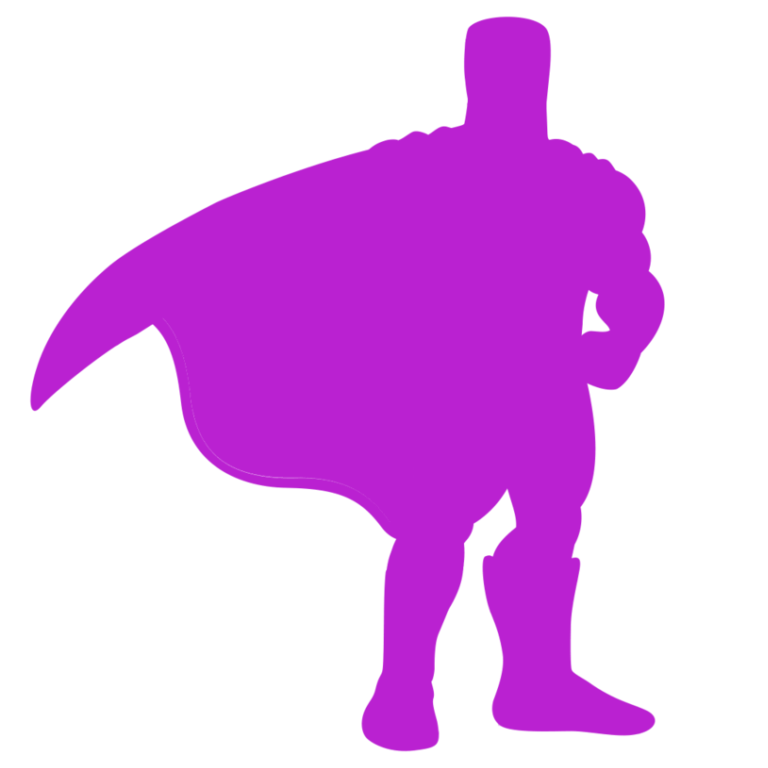
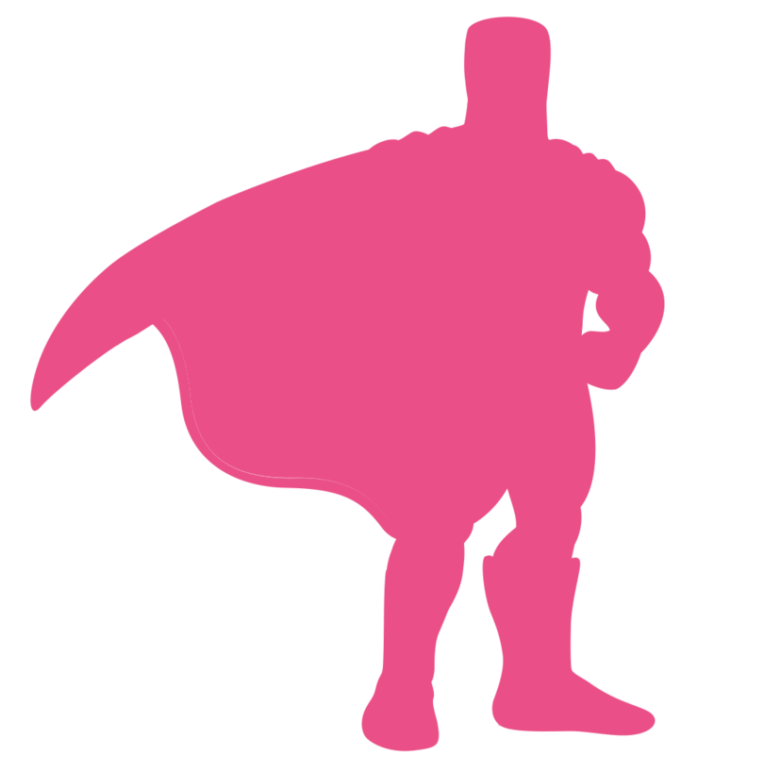
Ajuste de cores

diff --git a/src/templates/Home/Experiencias/const.ts b/src/templates/Home/Experiencias/const.ts
@@ -9,18 +9,18 @@ export default {
     },
     {
       title: "Estágiaria",
-      date: "20 de janeiro de 2020 - 1 de agosto de 2021",
-      text: "Lorem ipsum dolor sit amet, consectetur adipiscing elit, sed do eiusmod tempor incididunt ut labore et dolore magna aliqua. Ut enim ad minim veniam, quis nostrud exercitation ullamco laboris nisi ut aliquip ex ea commodo consequat. Duis aute irure dolor in reprehenderit in voluptate velit esse cillum dolore eu fugiat nulla pariatur. Excepteur sint occaecat cupidatat non proident, sunt in culpa qui officia deserunt mollit anim id est laborum."
+      date: "20 de agosto de 2022 - 23 de agosto de 2021",
+      text: "Lorem Ipsum is simply dummy text of the printing and typesetting industry. Lorem Ipsum has been the industry's standard dummy text ever since the 1500s, when an unknown printer took a galley of type and scrambled it to make a type specimen book. It has survived not only five centuries, but also the leap into electronic typesetting, remaining essentially unchanged. It was popularised in the 1960s with the release of Letraset sheets containing Lorem Ipsum passages, and more recently with desktop publishing software like Aldus PageMaker including versions of Lorem Ipsum"
     },
     {
       title: "Programadora Júnior",
       date: "20 de janeiro de 2020 - 1 de agosto de 2021",
-      text: "Lorem ipsum dolor sit amet, consectetur adipiscing elit, sed do eiusmod tempor incididunt ut labore et dolore magna aliqua. Ut enim ad minim veniam, quis nostrud exercitation ullamco laboris nisi ut aliquip ex ea commodo consequat. Duis aute irure dolor in reprehenderit in voluptate velit esse cillum dolore eu fugiat nulla pariatur. Excepteur sint occaecat cupidatat non proident, sunt in culpa qui officia deserunt mollit anim id est laborum."
+      text: "It is a long established fact that a reader will be distracted by the readable content of a page when looking at its layout. The point of using Lorem Ipsum is that it has a more-or-less normal distribution of letters, as opposed to using 'Content here, content here', making it look like readable English. Many desktop publishing packages and web page editors now use Lorem Ipsum as their default model text, and a search for 'lorem ipsum' will uncover many web sites still in their infancy. Various versions have evolved over the years, sometimes by accident, sometimes on purpose (injected humour and the like)."
     },
     {
       title: "Programadora Plena",
       date: "20 de janeiro de 2020 - 1 de agosto de 2021",
-      text: "Lorem ipsum dolor sit amet, consectetur adipiscing elit, sed do eiusmod tempor incididunt ut labore et dolore magna aliqua. Ut enim ad minim veniam, quis nostrud exercitation ullamco laboris nisi ut aliquip ex ea commodo consequat. Duis aute irure dolor in reprehenderit in voluptate velit esse cillum dolore eu fugiat nulla pariatur. Excepteur sint occaecat cupidatat non proident, sunt in culpa qui officia deserunt mollit anim id est laborum."
+      text: "There are many variations of passages of Lorem Ipsum available, but the majority have suffered alteration in some form, by injected humour, or randomised words which don't look even slightly believable. If you are going to use a passage of Lorem Ipsum, you need to be sure there isn't anything embarrassing hidden in the middle of text. All the Lorem Ipsum generators on the Internet tend to repeat predefined chunks as necessary, making this the first true generator on the Internet. "
     }
   ]
 }

diff --git a/src/templates/Home/Experiencias/index.tsx b/src/templates/Home/Experiencias/index.tsx
@@ -2,22 +2,55 @@ import * as S from './styles';
 import C from './const';
 import Wrapper from '../../../components/Wrapper';
 import Title from '../../../components/Title';
+import { useEffect, useRef } from 'react';
+import gsap from 'gsap';
 
 const Experiencias = () => {
+  const experienciasRef = useRef<HTMLDivElement>(null)
+  const accordionRef = useRef<HTMLDivElement>(null)
+  const optionRef = useRef<HTMLParagraphElement[]>([])
+  const accordionWrapperRef = useRef<HTMLDivElement[]>([])
+
+  const pushOptionRef = (el: HTMLParagraphElement) => optionRef.current.push(el)
+  const pushAccordionWrapperRef = (el: HTMLDivElement) => accordionWrapperRef.current.push(el)
+
+  useEffect(() => {
+    const tl = gsap.timeline({
+      scrollTrigger: {
+        trigger: accordionRef.current,
+        markers: true,
+        pin: experienciasRef.current,
+        scrub: 1,
+        start: "top top",
+        end: "bottom bottom",
+      }
+    })
+
+    tl.to(accordionWrapperRef.current, {
+      x: 10,
+      stagger: 1
+    })
+  }, []);
+
   return (
-    <S.Experiencias id={C.id}>
+    <S.Experiencias id={C.id} ref={experienciasRef}>
       <Wrapper>
         <S.Content>
           <Title>{C.title}</Title>
 
-          <S.Accordion>
+          <S.Accordion ref={accordionRef}>
             <S.AccordionMenu>
               {C.content.map(option => (
-                <S.Option>{option.title}</S.Option>
+                <S.Option key={option.title} ref={pushOptionRef}>{option.title}</S.Option>
               ))}
             </S.AccordionMenu>
             <S.AccordionContent>
-                
+              {C.content.map(option => (
+                <S.AccordionWrapper key={option.title} ref={pushAccordionWrapperRef}>
+                  <S.Date>{option.date}</S.Date>
+                  <S.Text>{option.text}</S.Text>
+                </S.AccordionWrapper>
+              ))}
             </S.AccordionContent>
           </S.Accordion>
         </S.Content>

diff --git a/src/templates/Home/Experiencias/styles.ts b/src/templates/Home/Experiencias/styles.ts
@@ -1,13 +1,55 @@
 import styled from 'styled-components';
 
-export const Experiencias = styled.section``;
+export const Experiencias = styled.section`
+`;
 
-export const Content = styled.div``;
+export const Content = styled.div`
+  max-width: 1150px;
+  margin: 0 auto;
+`;
 
-export const Accordion = styled.div``;
+export const Accordion = styled.div`
+  display: flex;
+`;
 
-export const AccordionMenu = styled.div``;
+export const AccordionMenu = styled.div`
+  width: 25%;
+`;
 
-export const Option = styled.p``;
+export const Option = styled.p`
+  font-size: 20px;
+  line-height: 24px;
+  padding: 22px 0 22px 33px;
 
-export const AccordionContent = styled.div``;
+  &:first-child {
+    border-left: 5px solid ${({theme}) => theme.colors.pinkDark};
+    color: ${({theme}) => theme.colors.pinkDark};
+  }
+`;
+
+export const AccordionContent = styled.div`
+  width: 75%;
+  position: relative;
+`;
+
+export const AccordionWrapper = styled.div`
+  position: absolute;
+  top: 0;
+
+  &:not(:first-child){
+    opacity: 0;
+  }
+`;
+
+export const Date = styled.p`
+  font-size: 23px;
+  color: ${({theme}) => theme.colors.white};
+  line-height: 27.6px;
+  padding-bottom: 23px;
+`;
+
+export const Text = styled.p`
+  font-size: 20px;
+  line-height: 28px;
+  color: ${({theme}) => theme.colors.grayTaupe};
+`;

diff --git a/src/styles/global.ts b/src/styles/global.ts
@@ -8,20 +8,20 @@ export const GlobalStyle = createGlobalStyle`
   }
 
   body {
-    background-color: #19041c;
+    background-color: #1F131F;
     color: #F9F9F9;
     -webkit-font-smoothing: antialiased;
     overflow-x: hidden;
   }
 
   ::-webkit-scrollbar-track {
-    background-color: #19151c;
+    background-color: #1F131F;
   }
   ::-webkit-scrollbar {
     width: 5px;
   }
   ::-webkit-scrollbar-thumb {
-    background: #ba21d1;
+    background: #EA4F87;
     border-radius: 5px; 
   }
 

diff --git a/src/styles/theme.ts b/src/styles/theme.ts
@@ -1,8 +1,8 @@
 const theme = {
   colors: {
-    blackEerie: '#19041c',
-    blackRaisin: '#19151c',
-    pinkDark: '#ba21d1',
+    blackEerie: '#1F131F',
+    blackRaisin: '#212121',
+    pinkDark: '#EA4F87',
     whiteGost: '#F9F9F9',
     grayTaupe: '#8A8989'
   },

diff --git a/src/pages/home.tsx b/src/pages/home.tsx
@@ -13,7 +13,7 @@ const Home = () => {
       <Header/>
       <QuemSou/>
       <Habilidades/>
-      {/* <Experiencias/> */}
+      <Experiencias/>
       <Contato/>
     </>
   )

diff --git a/src/templates/Home/Contato/styles.ts b/src/templates/Home/Contato/styles.ts
@@ -1,3 +1,5 @@
 import styled from 'styled-components';
 
-export const Contato = styled.section``
+export const Contato = styled.section`
+ padding: 300px;
+`
